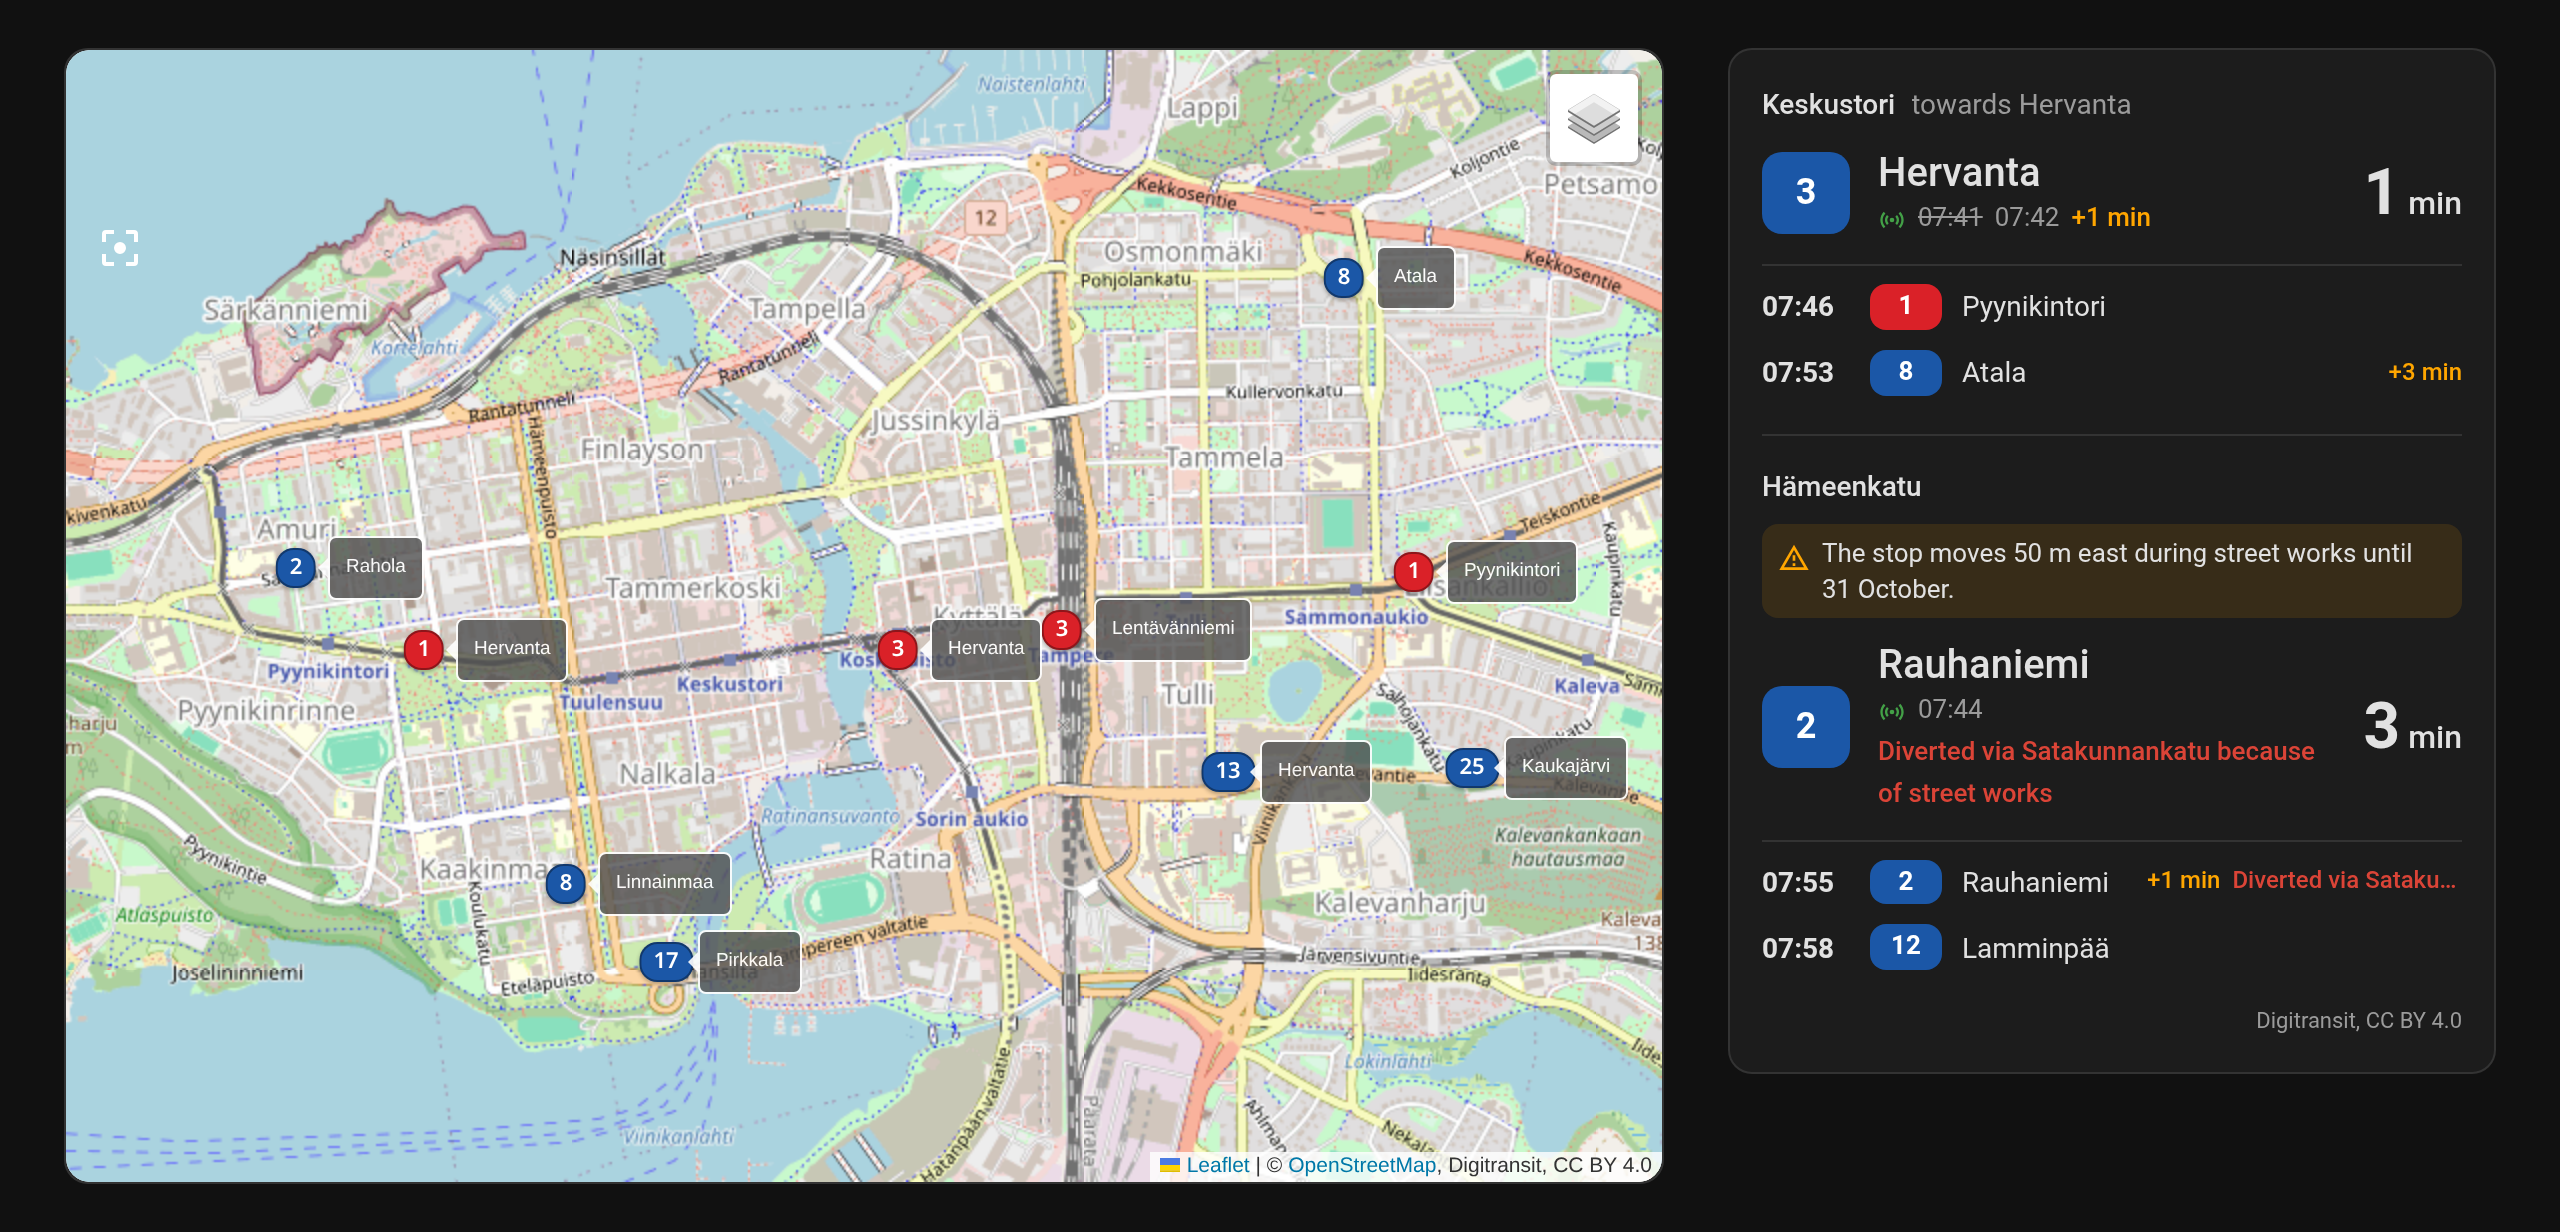
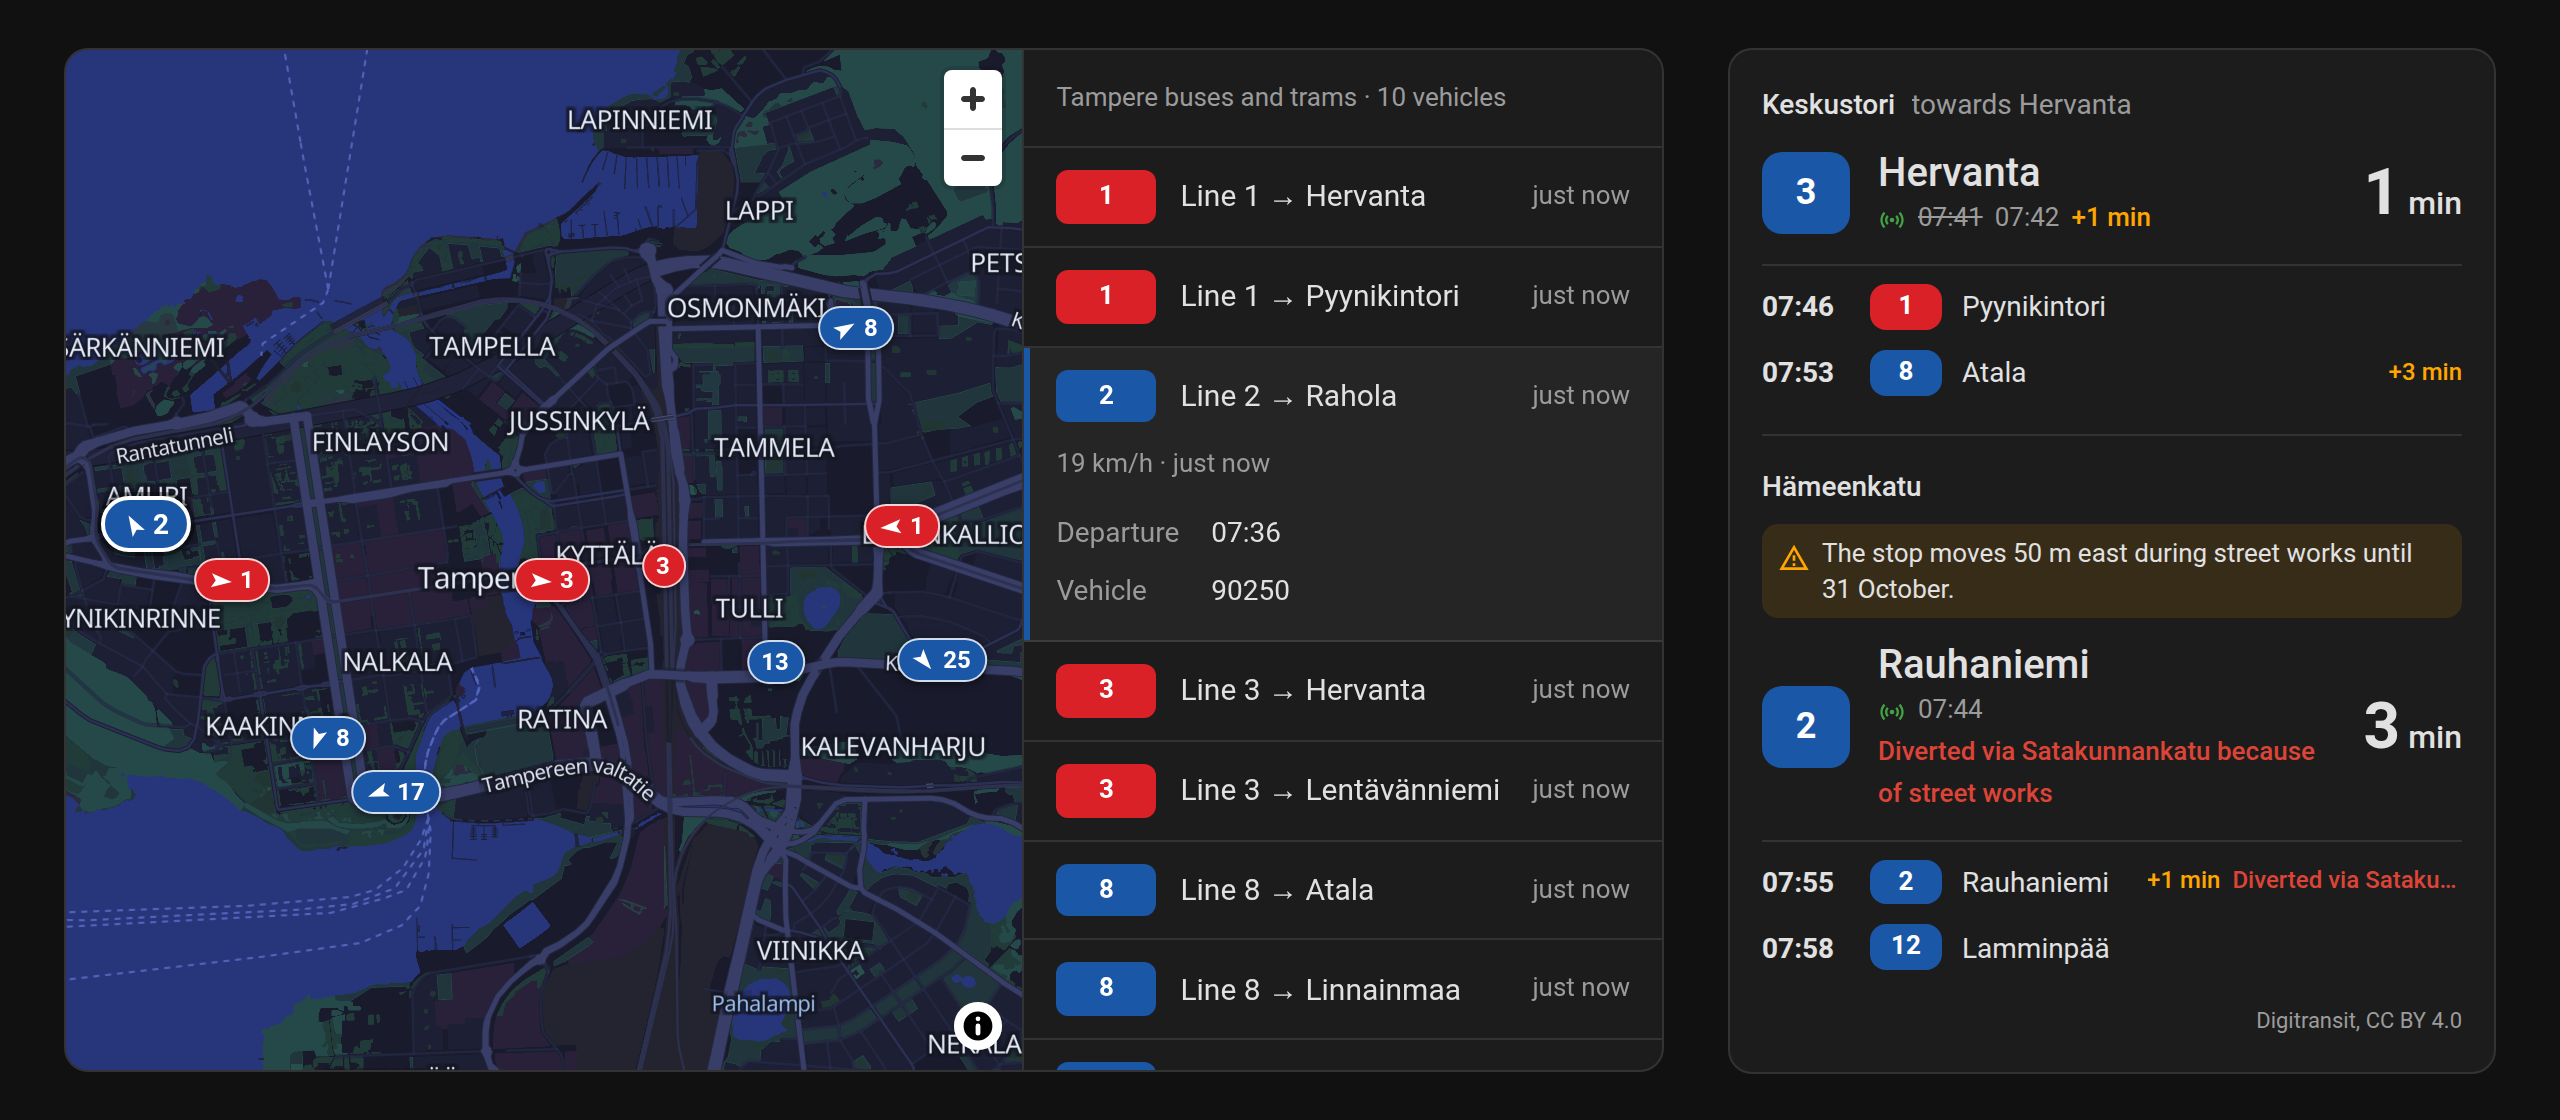
Screenshots with map-feed-card
The dashboard's map is map-feed-card with its list instead of ha-map-card with the plugin, and the made-up feed carries what 1.3.0 writes.

diff --git a/README.md b/README.md
@@ -4,8 +4,8 @@ Home Assistant integration that turns Digitransit's live buses, trams and stop d
 
 [![GitHub Release][releases-shield]][releases] [![GitHub Release Date][release-date-shield]][releases] [![HACS][hacs-shield]][hacs] [![License][license-shield]](LICENSE)
 
-<img src="https://raw.githubusercontent.com/jesmak/digitransit_live/main/docs/images/dashboard-light.png#gh-light-mode-only" width="1280" alt="A dashboard in Tampere, with a map of buses and trams labelled with their lines and destinations, and the departures from two stops, one of them with a notice about the stop moving">
-<img src="https://raw.githubusercontent.com/jesmak/digitransit_live/main/docs/images/dashboard-dark.png#gh-dark-mode-only" width="1280" alt="A dashboard in Tampere, with a map of buses and trams labelled with their lines and destinations, and the departures from two stops, one of them with a notice about the stop moving">
+<img src="https://raw.githubusercontent.com/jesmak/digitransit_live/main/docs/images/dashboard-light.png#gh-light-mode-only" width="1280" alt="A dashboard in Tampere, with a map of buses and trams showing their lines, the list of them beside it with one bus's details open, and the departures from two stops, one of them with a notice about the stop moving">
+<img src="https://raw.githubusercontent.com/jesmak/digitransit_live/main/docs/images/dashboard-dark.png#gh-dark-mode-only" width="1280" alt="A dashboard in Tampere, with a map of buses and trams showing their lines, the list of them beside it with one bus's details open, and the departures from two stops, one of them with a notice about the stop moving">
 
 ## What is it?
 
